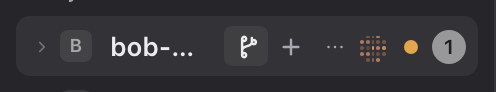
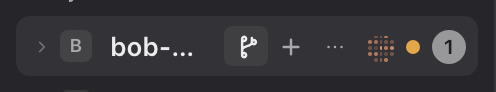
侧栏行尾标记统一 6px 间距
悬停时行尾的几个标记（点阵、琥珀点、计数）间隙原来是 4、7.5、8.5px：上游各自的 2px 外边距、
14px 槽，加上 fork 给琥珀点的 5.5/3.5px 外边距。sidebar-look.css 改为每个标记按自身宽度、任意两个
之间 6px、最后一个贴右边；工具按钮之后的第一个标记也从 6px 起。测试和 finish.md §10 已更新，行图重拍。

Tested-on: macOS 566e7a5ddbc33db479c349f1cd045a50ae087a4f

Changed region(s): [[0.7258, 0.4348, 0.8468, 0.6087], [0.7258, 0.6304, 0.7863, 0.6739], [0.7258, 0.3913, 0.7863, 0.413]]

diff --git a/packages/mac/src/fork/sidebar/sidebar-look.css b/packages/mac/src/fork/sidebar/sidebar-look.css
@@ -103,7 +103,7 @@
   display: inline-block;
   width: 7px;
   height: 7px;
-  margin: 0 3.5px 0 5.5px;
+  margin: 0;
   border-radius: 50%;
   box-shadow: none;
 }
@@ -145,4 +145,25 @@
    under the pointer (project-groups.module.css), and bringing it back would put it there again. */
 :root[data-calm] [data-fork-sidebar] [role='button']:is(:hover, :has(:focus-visible)) [data-fork-mark-hidden]:not([data-earnings-pill]) {
   display: revert;
+}
+
+/*
+ * The marks at a row's end sit on one rhythm: each as wide as it draws (no 14px slot around a 7px
+ * dot), 6px between any two, the last one flush with the row's right edge. Upstream gives each its
+ * own 2px margin, a 14px slot or a 4px gap, so with several showing (on hover) the spaces between
+ * them ran 4, 7.5 and 8.5px. The tools' buttons keep upstream's spacing; the marks after them start
+ * 6px on. Anchors: Sidebar.module.css (trailing, hoverTools, rowStatus, status, count) and
+ * signal.module.css (tally, mark, count), checked by tests/fork-sidebar-anchors.test.ts.
+ */
+[data-fork-sidebar] [class*='_trailing_'],
+[data-fork-sidebar] [class*='_trailing_'] [class*='_rowStatus_'],
+[data-fork-sidebar] [class*='_trailing_'] [class*='_tally_'] {
+  gap: 6px;
+}
+[data-fork-sidebar] [class*='_trailing_'] :is([class*='_status_'], [class*='_mark_'], [class*='_count_'], [class*='_tally_']) {
+  width: auto;
+  margin-left: 0;
+}
+[data-fork-sidebar] [class*='_trailing_'] [class*='_hoverTools_'] > :not(button) {
+  margin-left: 6px;
 }

diff --git a/tests/fork-sidebar-anchors.test.ts b/tests/fork-sidebar-anchors.test.ts
@@ -44,6 +44,15 @@ describe('the sidebar look’s upstream anchors', () => {
     expect(field).not.toMatch(/height:\s*\d+px/);
   });
 
+  it('spaces the marks at a row’s end 6px apart, each as wide as it draws', () => {
+    const look = read('fork', 'sidebar', 'sidebar-look.css').replace(/\/\*[\s\S]*?\*\//g, '');
+    const block = (sel: string): string => new RegExp(`${sel.replace(/[[\]*()|:>]/g, (c) => `\\${c}`)}[^{]*\\{([^}]*)\\}`).exec(look)?.[1] ?? '';
+    expect(block("[data-fork-sidebar] [class*='_trailing_'] [class*='_tally_']")).toContain('gap: 6px');
+    expect(block("[data-fork-sidebar] [class*='_trailing_'] [class*='_hoverTools_'] > :not(button)")).toContain('margin-left: 6px');
+    // The needs-you dot has no margins of its own any more: the gap places it.
+    expect(look).not.toMatch(/margin: 0 3\.5px 0 5\.5px/);
+  });
+
   it('finds the needs-you edge the overlay draws as a dot', () => {
     const marks = read('layout', 'signal-marks.tsx');
     expect(marks).toContain('<span className={m.edge} data-signal="needs"');

diff --git a/docs/calm/finish.md b/docs/calm/finish.md
@@ -797,5 +797,6 @@ Tested-on: macOS 27.2 (Darwin 27.2.0, 2026-11-18, 作者的 Mac)，树 0fe34fc37
 | `waitForTimeout(300)` | 改为 `waitForFunction`，等到页面上没有正在播放的 CSS 过渡 | `packages/mac/e2e/project-home-narrow.spec.ts` |
 | §5 的最终图过时 | 六场景 × 浅色深色、沉稳关工作区和任务页，全部重拍（`calm-check`，calm 开/关、full、loaded）；§2.5 的「改后」「悬停」两张也重拍。演示数据里 bob-api 行本身就同时有点阵、琥珀点、计数三样，不用再克隆：静止时只露琥珀点，悬停时三样都展开 | `docs/calm/img/m8-final-*`、`m8-row-after-*`、`m8-row-hover-*` |
 | §5.3、§6 过时 | 已更新 | 本页 |
+| 行尾几个标记之间的间隙不一（4、7.5、8.5px：各自的 2px 外边距、14px 槽、琥珀点的 5.5/3.5px 外边距） | `sidebar-look.css`：每个标记按自身宽度，任意两个之间 6px，最后一个贴右边；琥珀点不再带外边距 | `tests/fork-sidebar-anchors.test.ts`；实测点阵→琥珀点 6px、琥珀点→计数 6px；`m8-row-after-*`、`m8-row-hover-*` 已重拍 |
 
 仍未做：M8-7（••• 菜单里找回推广卡的入口）、M8-13（长分支名时 Create Worktree 超出盒子）、M8-14（悬停时名字被挤短）。
